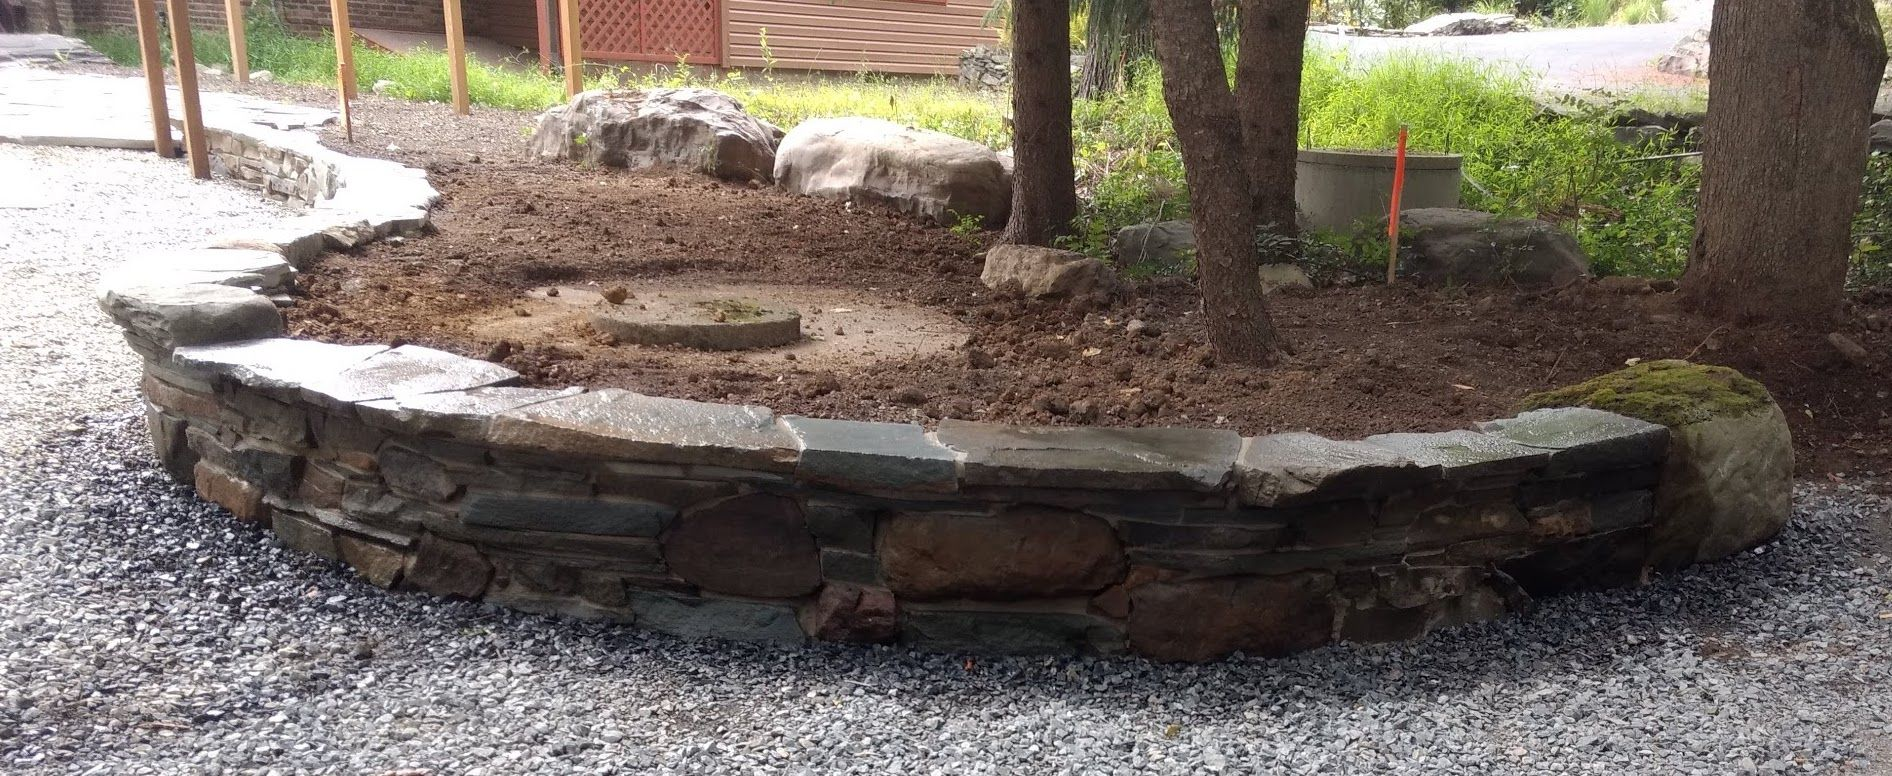
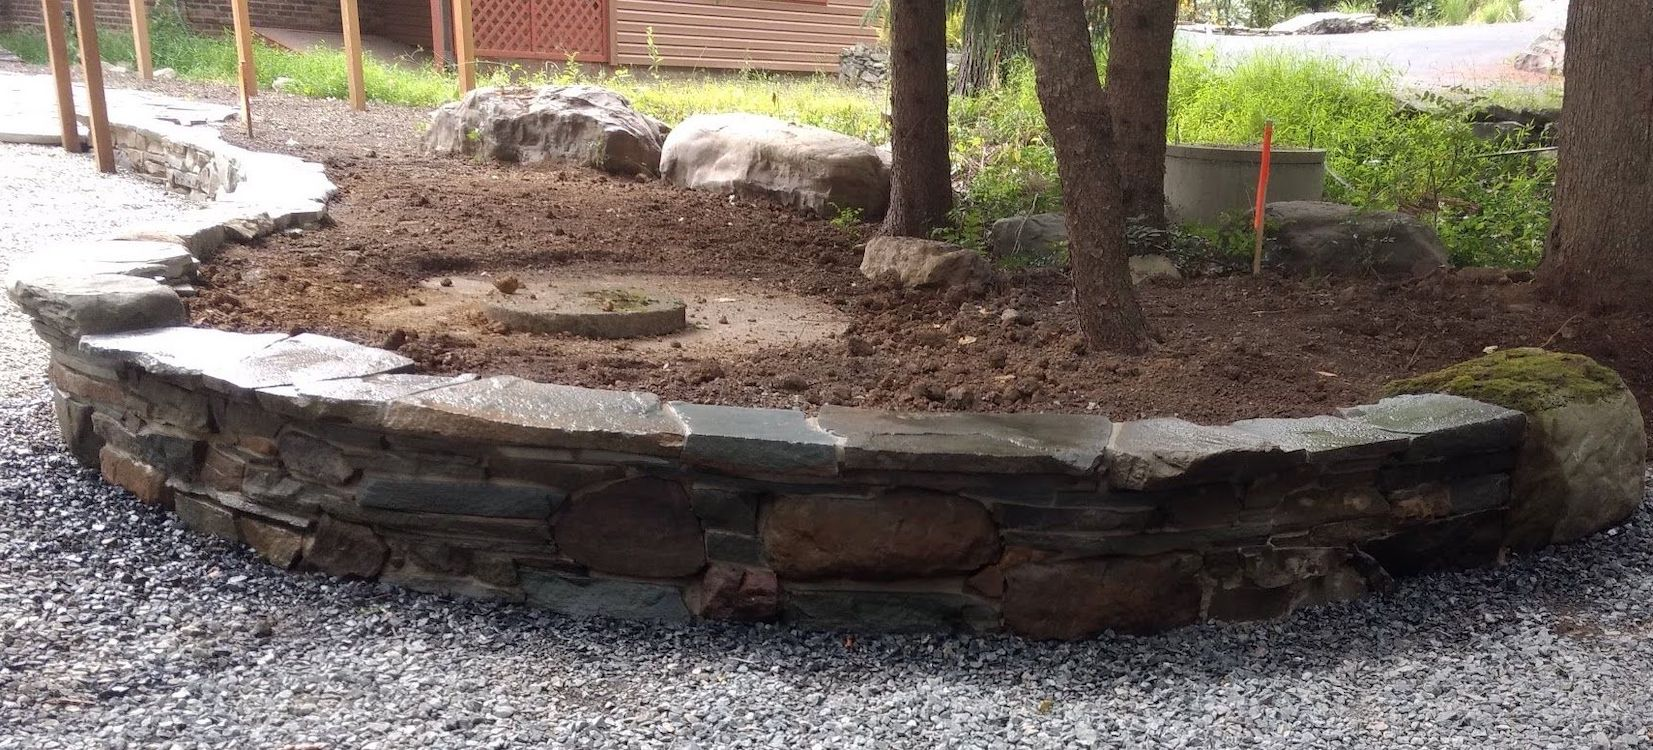
Added titles to images and rreplaced images that did not have a good look on mobile.

diff --git a/index.html b/index.html
@@ -60,17 +60,17 @@
             data-position="left center"
             ><img src="images/thumb/patio-wall-steves-small.jpg" alt=""
           /></a>
-          <h2>Diam tempus accumsan</h2>
-          <p>Lorem ipsum dolor sit amet, consectetur adipiscing elit.</p>
+          <h2>Irregular Flagstone Patio - Stone wall - Full Slab Steps</h2>
+          <!-- <p>Lorem ipsum dolor sit amet, consectetur adipiscing elit.</p> -->
         </article>
         <article>
           <a class="thumbnail" href="images/full/patio-wall-steves2.jpg"
             ><img src="images/thumb/patio-wall-steves2-small.jpg" alt=""
           /></a>
-          <h2>Vivamus convallis libero</h2>
-          <p>
+          <h2>Irregular Flagstone Patio - Stone wall</h2>
+          <!-- <p>
             Sed velit lacus, laoreet at venenatis convallis in lorem tincidunt.
-          </p>
+          </p> -->
         </article>
         <article>
           <a
@@ -79,20 +79,20 @@
             data-position="top center"
             ><img src="images/thumb/patio-lav-farm-small.jpg" alt=""
           /></a>
-          <h2>Nec accumsan enim felis</h2>
-          <p>
+          <h2>Irregular Flagstone Patio</h2>
+          <!-- <p>
             Maecenas eleifend tellus ut turpis eleifend, vitae pretium faucibus.
-          </p>
+          </p> -->
         </article>
         <article>
           <a class="thumbnail" href="images/full/patio-lav-farm2.jpg"
             ><img src="images/thumb/patio-lav-farm2-small.jpg" alt=""
           /></a>
-          <h2>Donec maximus nisi eget</h2>
-          <p>
+          <h2>Irregular Flagstone Patio</h2>
+          <!-- <p>
             Tristique in nulla vel congue. Sed sociis natoque parturient
             nascetur.
-          </p>
+          </p> -->
         </article>
         <article>
           <a
@@ -101,63 +101,40 @@
             data-position="top center"
             ><img src="images/thumb/patio-rileys2-small.jpg" alt=""
           /></a>
-          <h2>Nullam vitae nunc vulputate</h2>
-          <p>In pellentesque cursus velit id posuere. Donec vehicula nulla.</p>
+          <h2>Pattern Bluestone</h2>
+          <!-- <p>In pellentesque cursus velit id posuere. Donec vehicula nulla.</p> -->
         </article>
         <article>
           <a class="thumbnail" href="images/full/patio-rileys.jpg"
             ><img src="images/thumb/patio-rileys-small.jpg" alt=""
           /></a>
-          <h2>Phasellus magna faucibus</h2>
-          <p>
+          <h2>Pattern Bluestone</h2>
+          <!-- <p>
             Nulla dignissim libero maximus tellus varius dictum ut posuere
             magna.
-          </p>
+          </p> -->
         </article>
         <article>
           <a class="thumbnail" href="images/full/walkway-lindas.jpg"
             ><img src="images/thumb/walkway-lindas-small.jpg" alt=""
           /></a>
-          <h2>Proin quis mauris</h2>
-          <p>
+          <h2>Irregular Flagstone Walkway</h2>
+          <!-- <p>
             Etiam ultricies, lorem quis efficitur porttitor, facilisis ante orci
             urna.
-          </p>
+          </p> -->
         </article>
         <article>
-          <a class="thumbnail" href="images/full/walkway-and-wall-als.jpg"
-            ><img src="images/thumb/walkway-and-wall-als-small.jpg" alt=""
+          <a class="thumbnail" href="images/full/als-step-wall.jpg"
+            ><img src="images/thumb/als-step-wall-small.jpg" alt=""
           /></a>
-          <h2>Gravida quis varius enim</h2>
+          <h2>Pattern Bluestone Steps - Walkway - Stonewall</h2>
           <p>
-            Nunc egestas congue lorem. Nullam dictum placerat ex sapien tortor
-            mattis.
+            <!-- Nunc egestas congue lorem. Nullam dictum placerat ex sapien tortor
+            mattis. -->
           </p>
         </article>
-        <article>
-          <a
-            class="thumbnail"
-            href="images/full/stonewall-and-patio-noelles.jpg"
-            ><img
-              src="images/thumb/stonewall-and-patio-noelles-small.jpg"
-              alt=""
-          /></a>
-          <h2>Morbi eget vitae adipiscing</h2>
-          <p>
-            In quis vulputate dui. Maecenas metus elit, dictum praesent lacinia
-            lacus.
-          </p>
-        </article>
-        <article>
-          <a class="thumbnail" href="images/full/stonewall-pa-fullview.jpg"
-            ><img src="images/thumb/stonewall-pa-fullview-small.jpg" alt=""
-          /></a>
-          <h2>Habitant tristique senectus</h2>
-          <p>
-            Vestibulum ante ipsum primis in faucibus orci luctus ac tincidunt
-            dolor.
-          </p>
-        </article>
+        
         <!-- <article>
           <a class="thumbnail" href="images/full/drystack-wall-before-after.png"
             ><img
@@ -184,31 +161,55 @@
           <a class="thumbnail" href="images/full/firepit-lav-farm2.jpg"
             ><img src="images/thumb/firepit-lav-farm2-small.jpg" alt=""
           /></a>
-          <h2>Mattis lorem sodales</h2>
+          <h2>Stone Fire Pit</h2>
           <p>
-            Feugiat auctor leo massa, nec vestibulum nisl erat faucibus, rutrum
-            nulla.
+            <!-- Feugiat auctor leo massa, nec vestibulum nisl erat faucibus, rutrum
+            nulla. -->
           </p>
         </article>
         <article>
           <a class="thumbnail" href="images/full/firepit-lav-farm.jpg"
             ><img src="images/thumb/firepit-lav-farm-small.jpg" alt=""
           /></a>
-          <h2>Mattis lorem sodales</h2>
-          <p>
+          <h2>Stone Fire Pit</h2>
+          <!-- <p>
             Feugiat auctor leo massa, nec vestibulum nisl erat faucibus, rutrum
             nulla.
-          </p>
+          </p> -->
+        </article>
+        <article>
+          <a
+            class="thumbnail"
+            href="images/full/stonewall-and-patio-noelles.jpg"
+            ><img
+              src="images/thumb/stonewall-and-patio-noelles-small.jpg"
+              alt=""
+          /></a>
+          <h2>Irregular Flagstone Patio - Stonewall</h2>
+          <!-- <p>
+            In quis vulputate dui. Maecenas metus elit, dictum praesent lacinia
+            lacus.
+          </p> -->
+        </article>
+        <article>
+          <a class="thumbnail" href="images/full/stonewall-pa-fullview.jpg"
+            ><img src="images/thumb/stonewall-pa-fullview-small.jpg" alt=""
+          /></a>
+          <h2>Stonewall</h2>
+          <!-- <p>
+            Vestibulum ante ipsum primis in faucibus orci luctus ac tincidunt
+            dolor.
+          </p> -->
         </article>
         <article>
           <a class="thumbnail" href="images/full/stone-steps-rail.jpg"
             ><img src="images/thumb/stone-steps-rail-small.jpg" alt=""
           /></a>
-          <h2>Pharetra ex non faucibus</h2>
-          <p>
+          <h2>Stone Steps - Split Rail Hand Rail</h2>
+          <!-- <p>
             Ut sed magna euismod leo laoreet congue. Fusce congue enim
             ultricies.
-          </p>
+          </p> -->
         </article>
       </section>
 
